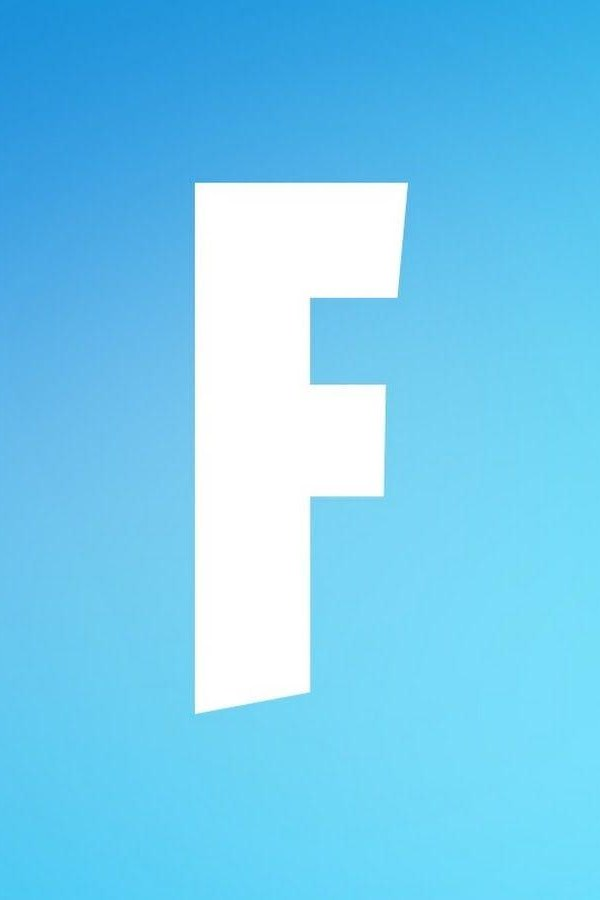
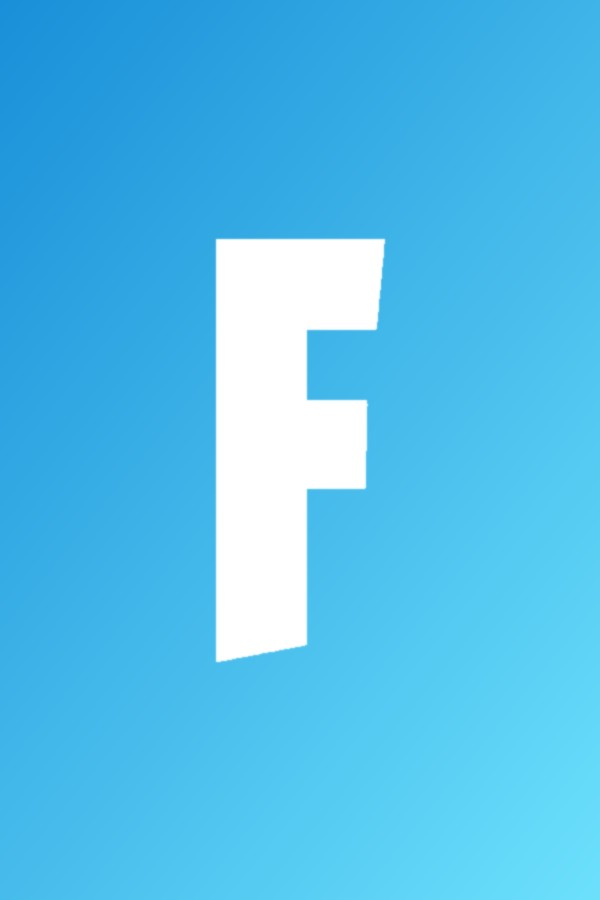
0.53.25 : bannières Fortnite et Roblox au format en-tête (1920×700, plein cadre), F de Fortnite dézoomé sur la pochette (#279)
Claude-Session: https://claude.ai/code/session_01GF8mGr7yTNhrvWDhdfGEFd

diff --git a/launcher/src/ui/app.js b/launcher/src/ui/app.js
@@ -1607,6 +1607,9 @@ api.settings?.().then((s) => {
 // ---------- Quoi de neuf (après chaque mise à jour) ----------
 // Nouveautés par version : après une mise à jour, un court message avec l'essentiel (titres seulement)
 const CHANGELOG = {
+  '0.53.25': [
+    ['🖼', 'Bannières en grand', 'Les bannières de Fortnite et Roblox remplissent tout l’en-tête du jeu, et le logo Fortnite de la pochette est mieux cadré.', ['.side nav button:nth-child(2)', 'wait900']],
+  ],
   '0.53.24': [
     ['🎮', 'Fortnite a sa pochette', 'Fortnite a enfin sa vraie pochette et sa bannière. Roblox : bannière qui remplit tout l’en-tête et logo bien centré sur la pochette.', ['.side nav button:nth-child(2)', 'wait900']],
   ],
@@ -4691,7 +4694,7 @@ function demoApi() {
     cleanRun: async () => ({ ok: true, freed: 4.9e9 }),
     deals: async () => [{ appid: '1', name: 'Jeu en promo', pct: 75, price: '4,99€', before: '19,99€', image: img('h1.jpg') }],
     premiumGet: async () => ({ ia: false, opti: false, logged: true, code: 'AMI-7KQ2PX', trialUsed: false }), premiumBuy: async () => ({ ok: true }), premiumTrial: async () => ({ ok: true }), premiumRedeem: async () => ({ ok: true, pack: 'pack' }),
-    version: async () => '0.53.24',
+    version: async () => '0.53.25',
     storeSearch: async () => [{ name: 'Fortnite', src: 'epic', img: null, url: 'https://store.epicgames.com/fr/p/fortnite' }],
     scanDrives: async () => [{ letter: 'C', size: 1e12, used: 6.2e11, system: true }, { letter: 'D', size: 2e12, used: 9e11, system: false }],
     freeGames: async () => [{ name: 'Jeu gratuit', slug: 'jeu', image: img('h2.jpg'), now: true, until: Date.now() + 5 * 86_400_000 }, { name: 'Prochain jeu', slug: 'prochain', image: img('h1.jpg'), now: false, from: Date.now() + 5 * 86_400_000 }], openFree: async () => {},
